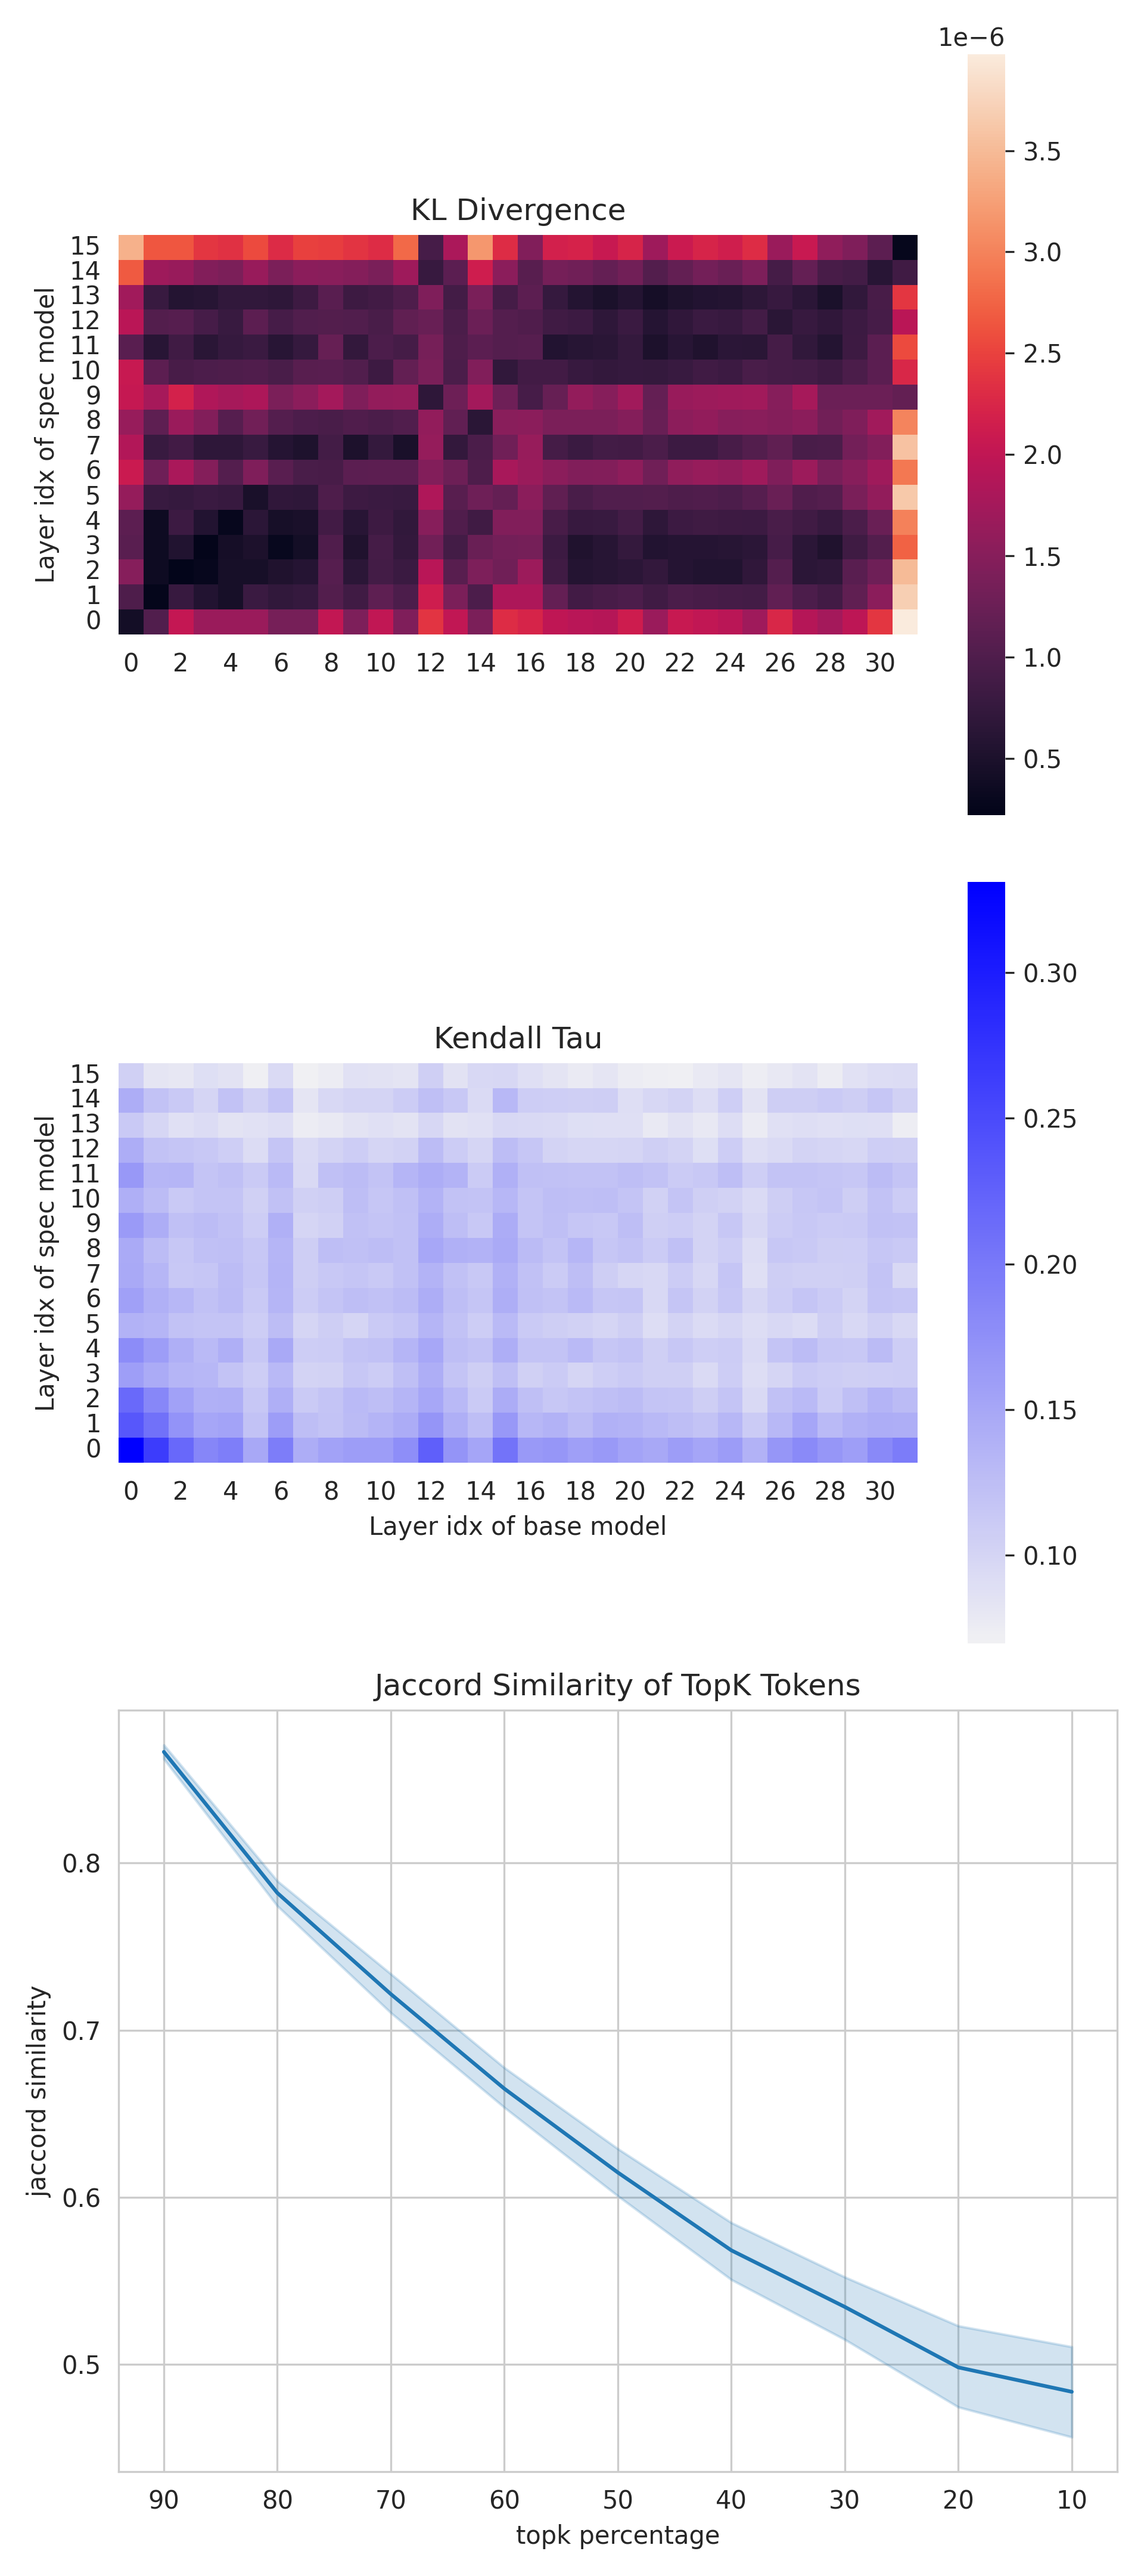
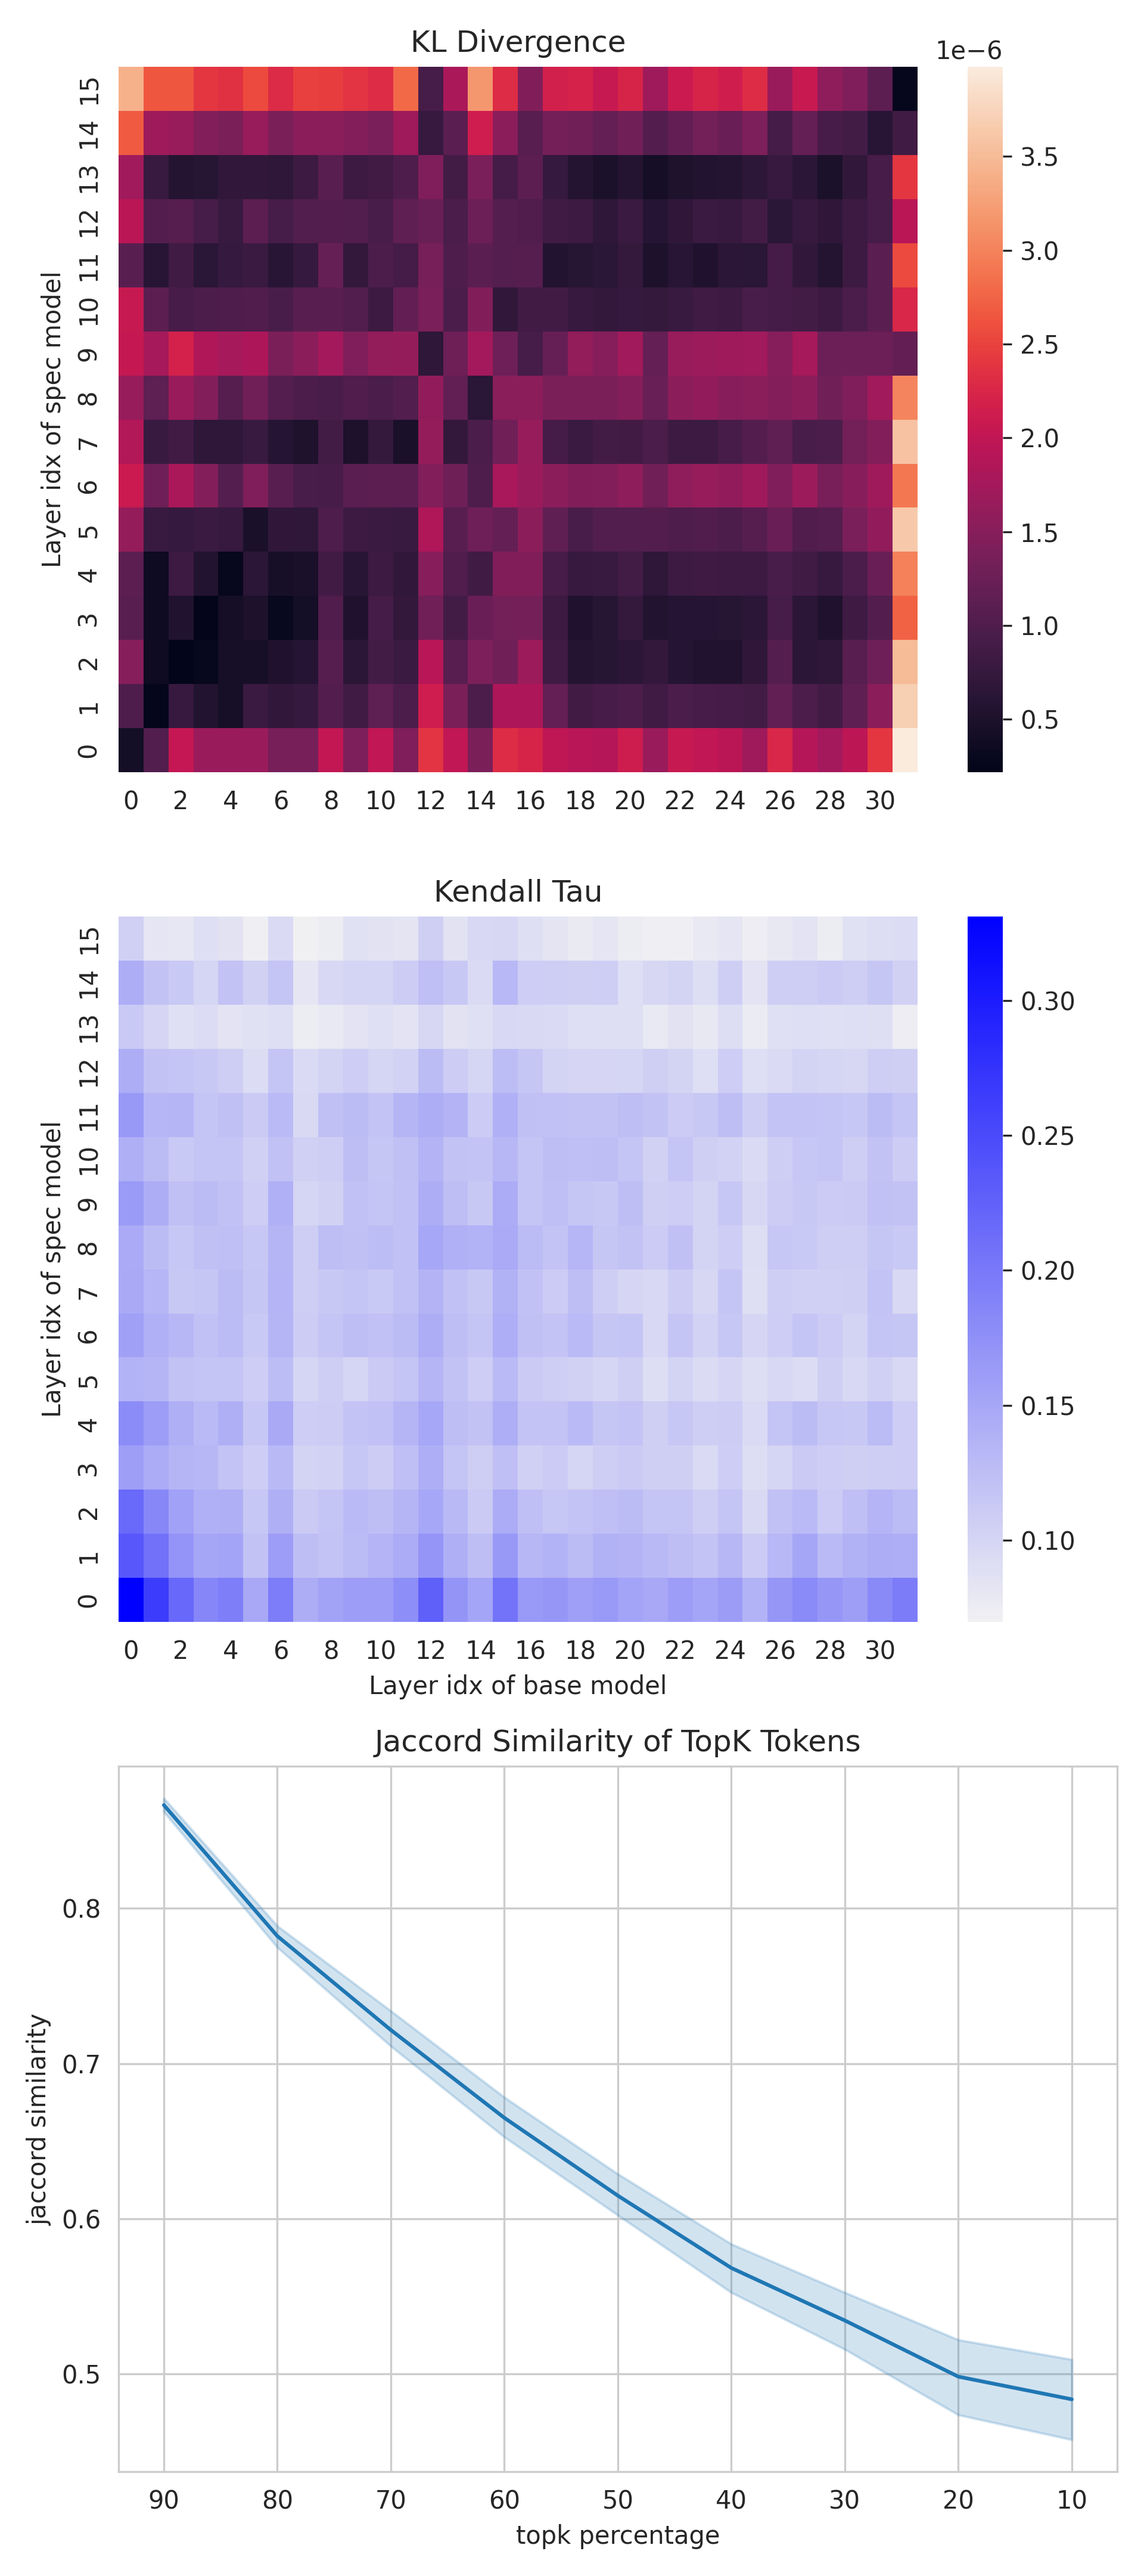
Updated visualization with 70B models

diff --git a/visualization/attn_correlation.py b/visualization/attn_correlation.py
@@ -109,8 +109,8 @@ _, axes = plt.subplots(
     3, 1, 
     figsize=(6.4, 4.8 * 3))
 
-sns.heatmap(kls, square=True, ax=axes[0])
-sns.heatmap(taus, square=True, ax=axes[1], cmap=sns.color_palette("light:b", as_cmap=True))
+sns.heatmap(kls, ax=axes[0])
+sns.heatmap(taus, ax=axes[1], cmap=sns.color_palette("light:b", as_cmap=True))
 axes[1].set_xlabel("Layer idx of base model")
 axes[0].set_ylabel("Layer idx of spec model")
 axes[1].set_ylabel("Layer idx of spec model")
